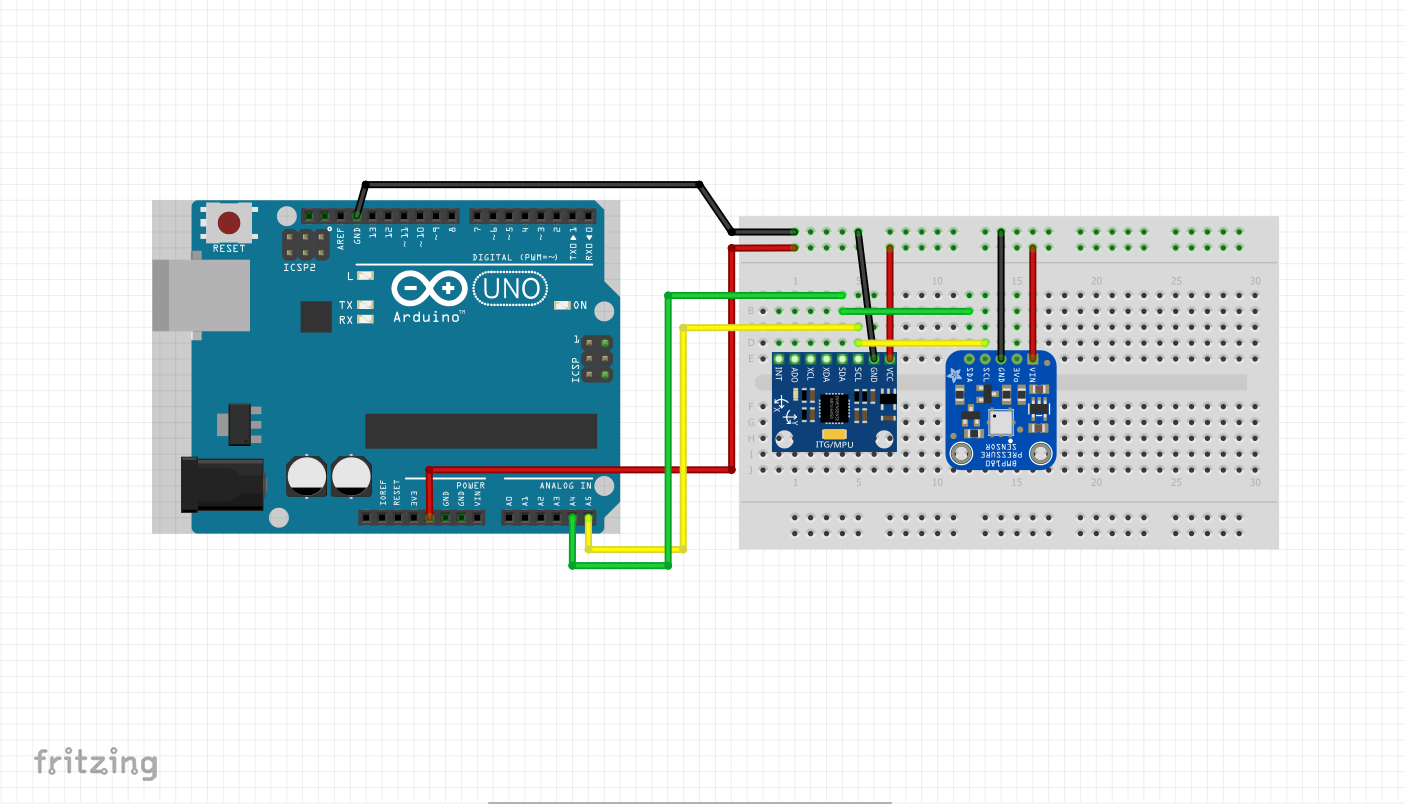
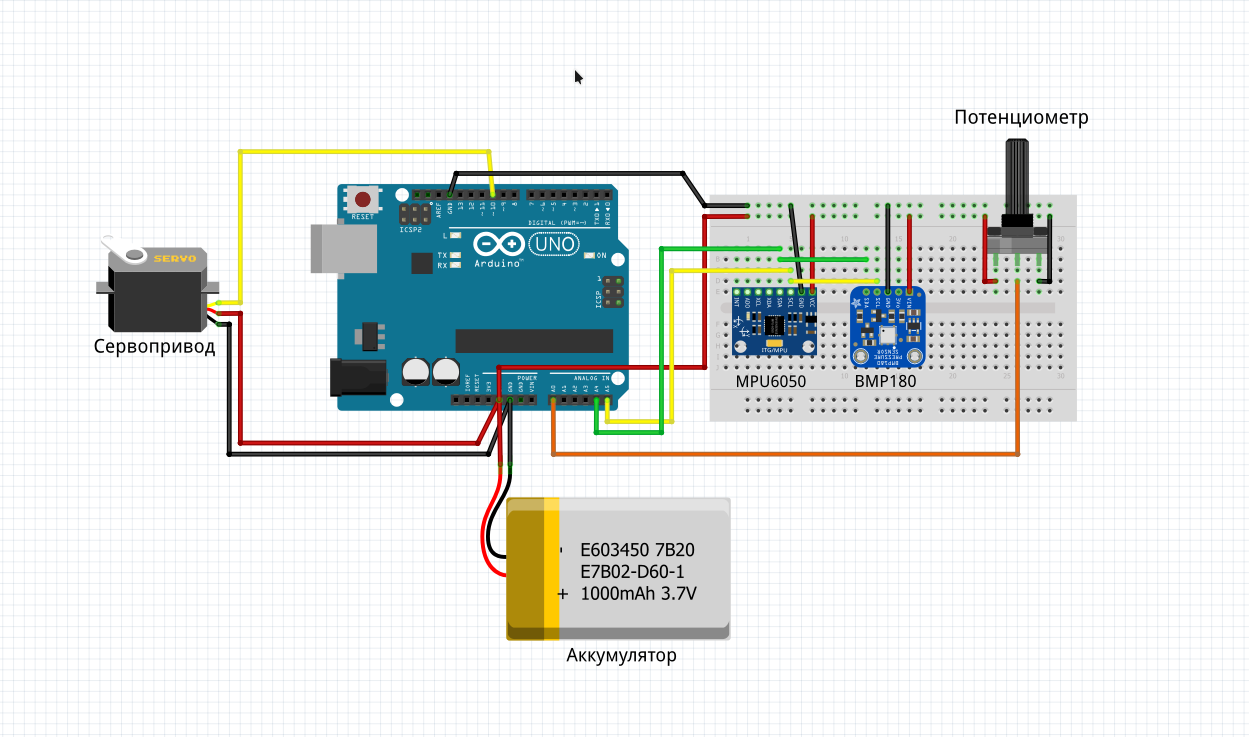
update accelerometer

diff --git a/src/config.h b/src/config.h
@@ -1,6 +1,6 @@
 
-#define PIN_POTENT 15
+#define PIN_POTENT A0
 
-#define PIN_SERVO 5
+#define PIN_SERVO 10
 
 #define DELAY_TIME 500
